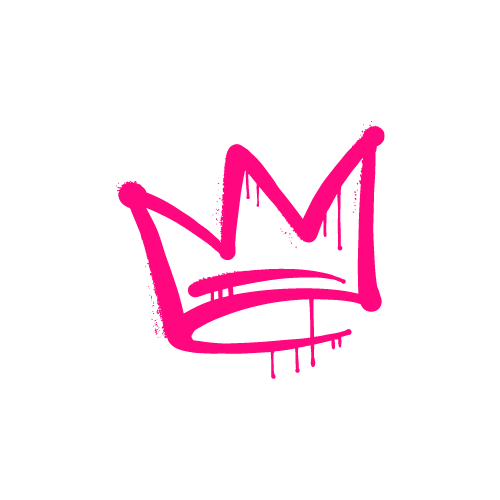
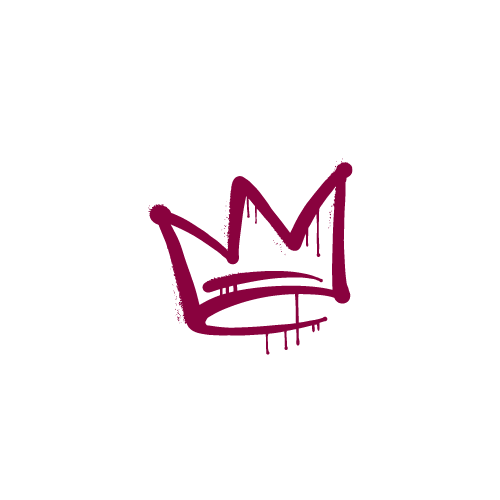
front end

Changed region(s): [[0.24, 0.24, 0.78, 0.75]]

diff --git a/public/css/style.css b/public/css/style.css
@@ -10,10 +10,10 @@
 
 
 body {
-  height: 100vh;
+  height: 90vh;
   width: 100%;
   overflow: auto;
-  background-image: url("../assets/img/beckgroud2.png");
+  background-image: url("../assets/img/backgroud\ \(2\).png");
   background-size: cover;
   background-repeat: no-repeat;
   background-position: center;
@@ -133,7 +133,7 @@ img {
 }
 
 .menu a:hover {
-  color: #0C163B;
+  color: #1b2021;
 }
 
 /* MAIN */
@@ -201,6 +201,7 @@ text-align: center;
   color: #fff;
   font-size: 35px;
   font-family: "Cinzel", serif;
+  text-align: left;
 }
 
 .sobreMim-texto p{
@@ -224,8 +225,10 @@ text-align: center;
   justify-content: space-around;
 }
 
-.titulo{
-  text-shadow: 1px 2px 2px #FF077E;
+
+.titulo {
+  
+  background-clip: text;
   padding-bottom: 5rem;  
   font-family: "Cinzel", serif;
 
@@ -281,8 +284,8 @@ text-align: center;
 }
 
 .Saiba-Mais:hover{
-  text-decoration: underline #FF077E;
-  color: #FF077E;
+  text-decoration: underline #89023e;
+  color: #89023e;
 }
 
 
@@ -302,16 +305,19 @@ text-align: center;
 }
 
 #sobreMim{
-  background-color: #0C163B;
+  background-color: #1b2021;
   padding-top: 50px;
   padding-bottom: 100px;
   text-align: center;
 }
 
 #sobreMim h2 {
-  color: #fff;
   font-size: 2.5rem;
   margin-bottom: 1rem;
+  font-family: 'Cinzel', serif;
+  background: #ffffff;
+  background-clip: text;
+  color: transparent;
 }
 
 /* SOBRE NÓS */
@@ -373,7 +379,7 @@ text-align: center;
 
 
  #sobreDanca {
-  background-color: #0C163B;
+  background-color: #89023e;
   padding: 50px 0;
   color: #fff;
  }
@@ -437,7 +443,7 @@ text-align: center;
 
 .footer {
   height: 80px;
-  background-color: #FF077E;
+  background-color: #89023e;
   color: #fff;
   display: flex;
   align-items: center;

diff --git a/public/index.html b/public/index.html
@@ -33,13 +33,13 @@
   </header>
   <div class="background">
     <center>
-      <img src="assets/img/2.png" alt="logo" class="logosite">
+      <img src="assets/img/1.png" alt="logo" class="logosite">
   </div>
   </center>
 
 
   <section id="sobreMim">
-    <h2 class="titulo">SOBRE MIM</h2>
+    <h2 >SOBRE MIM</h2> <br>
   
 
     <div class="sobreMim-container">
